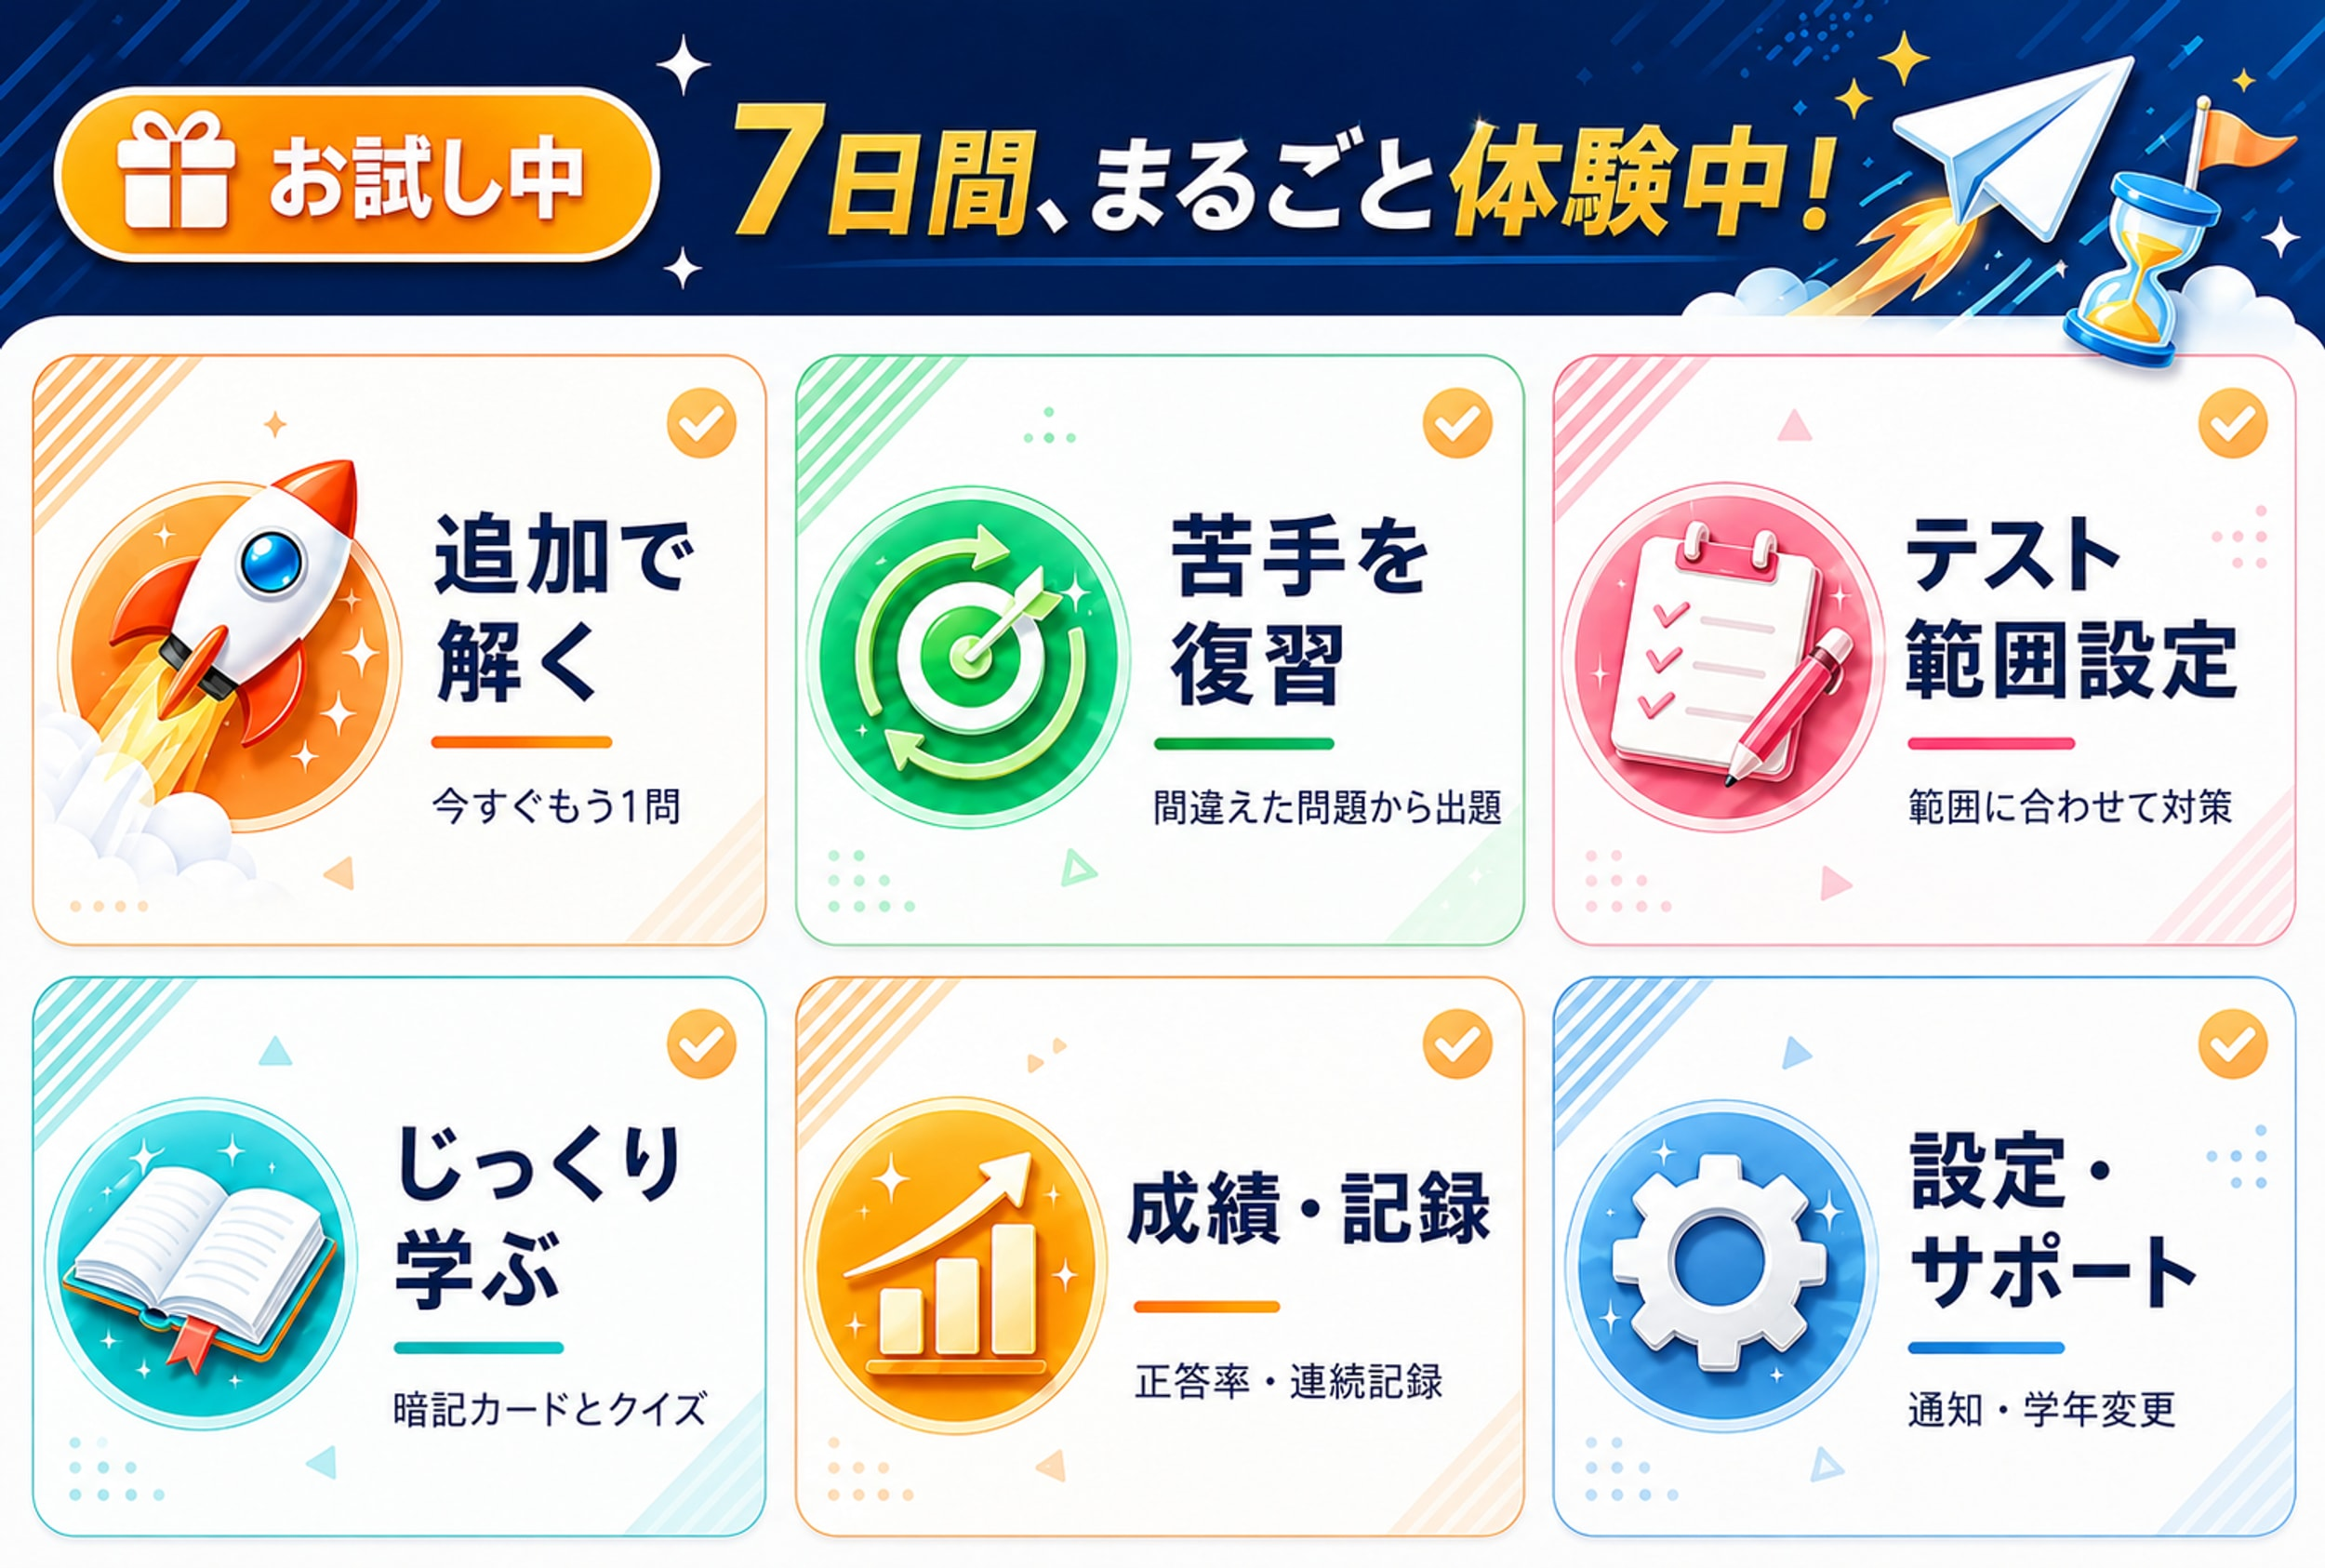
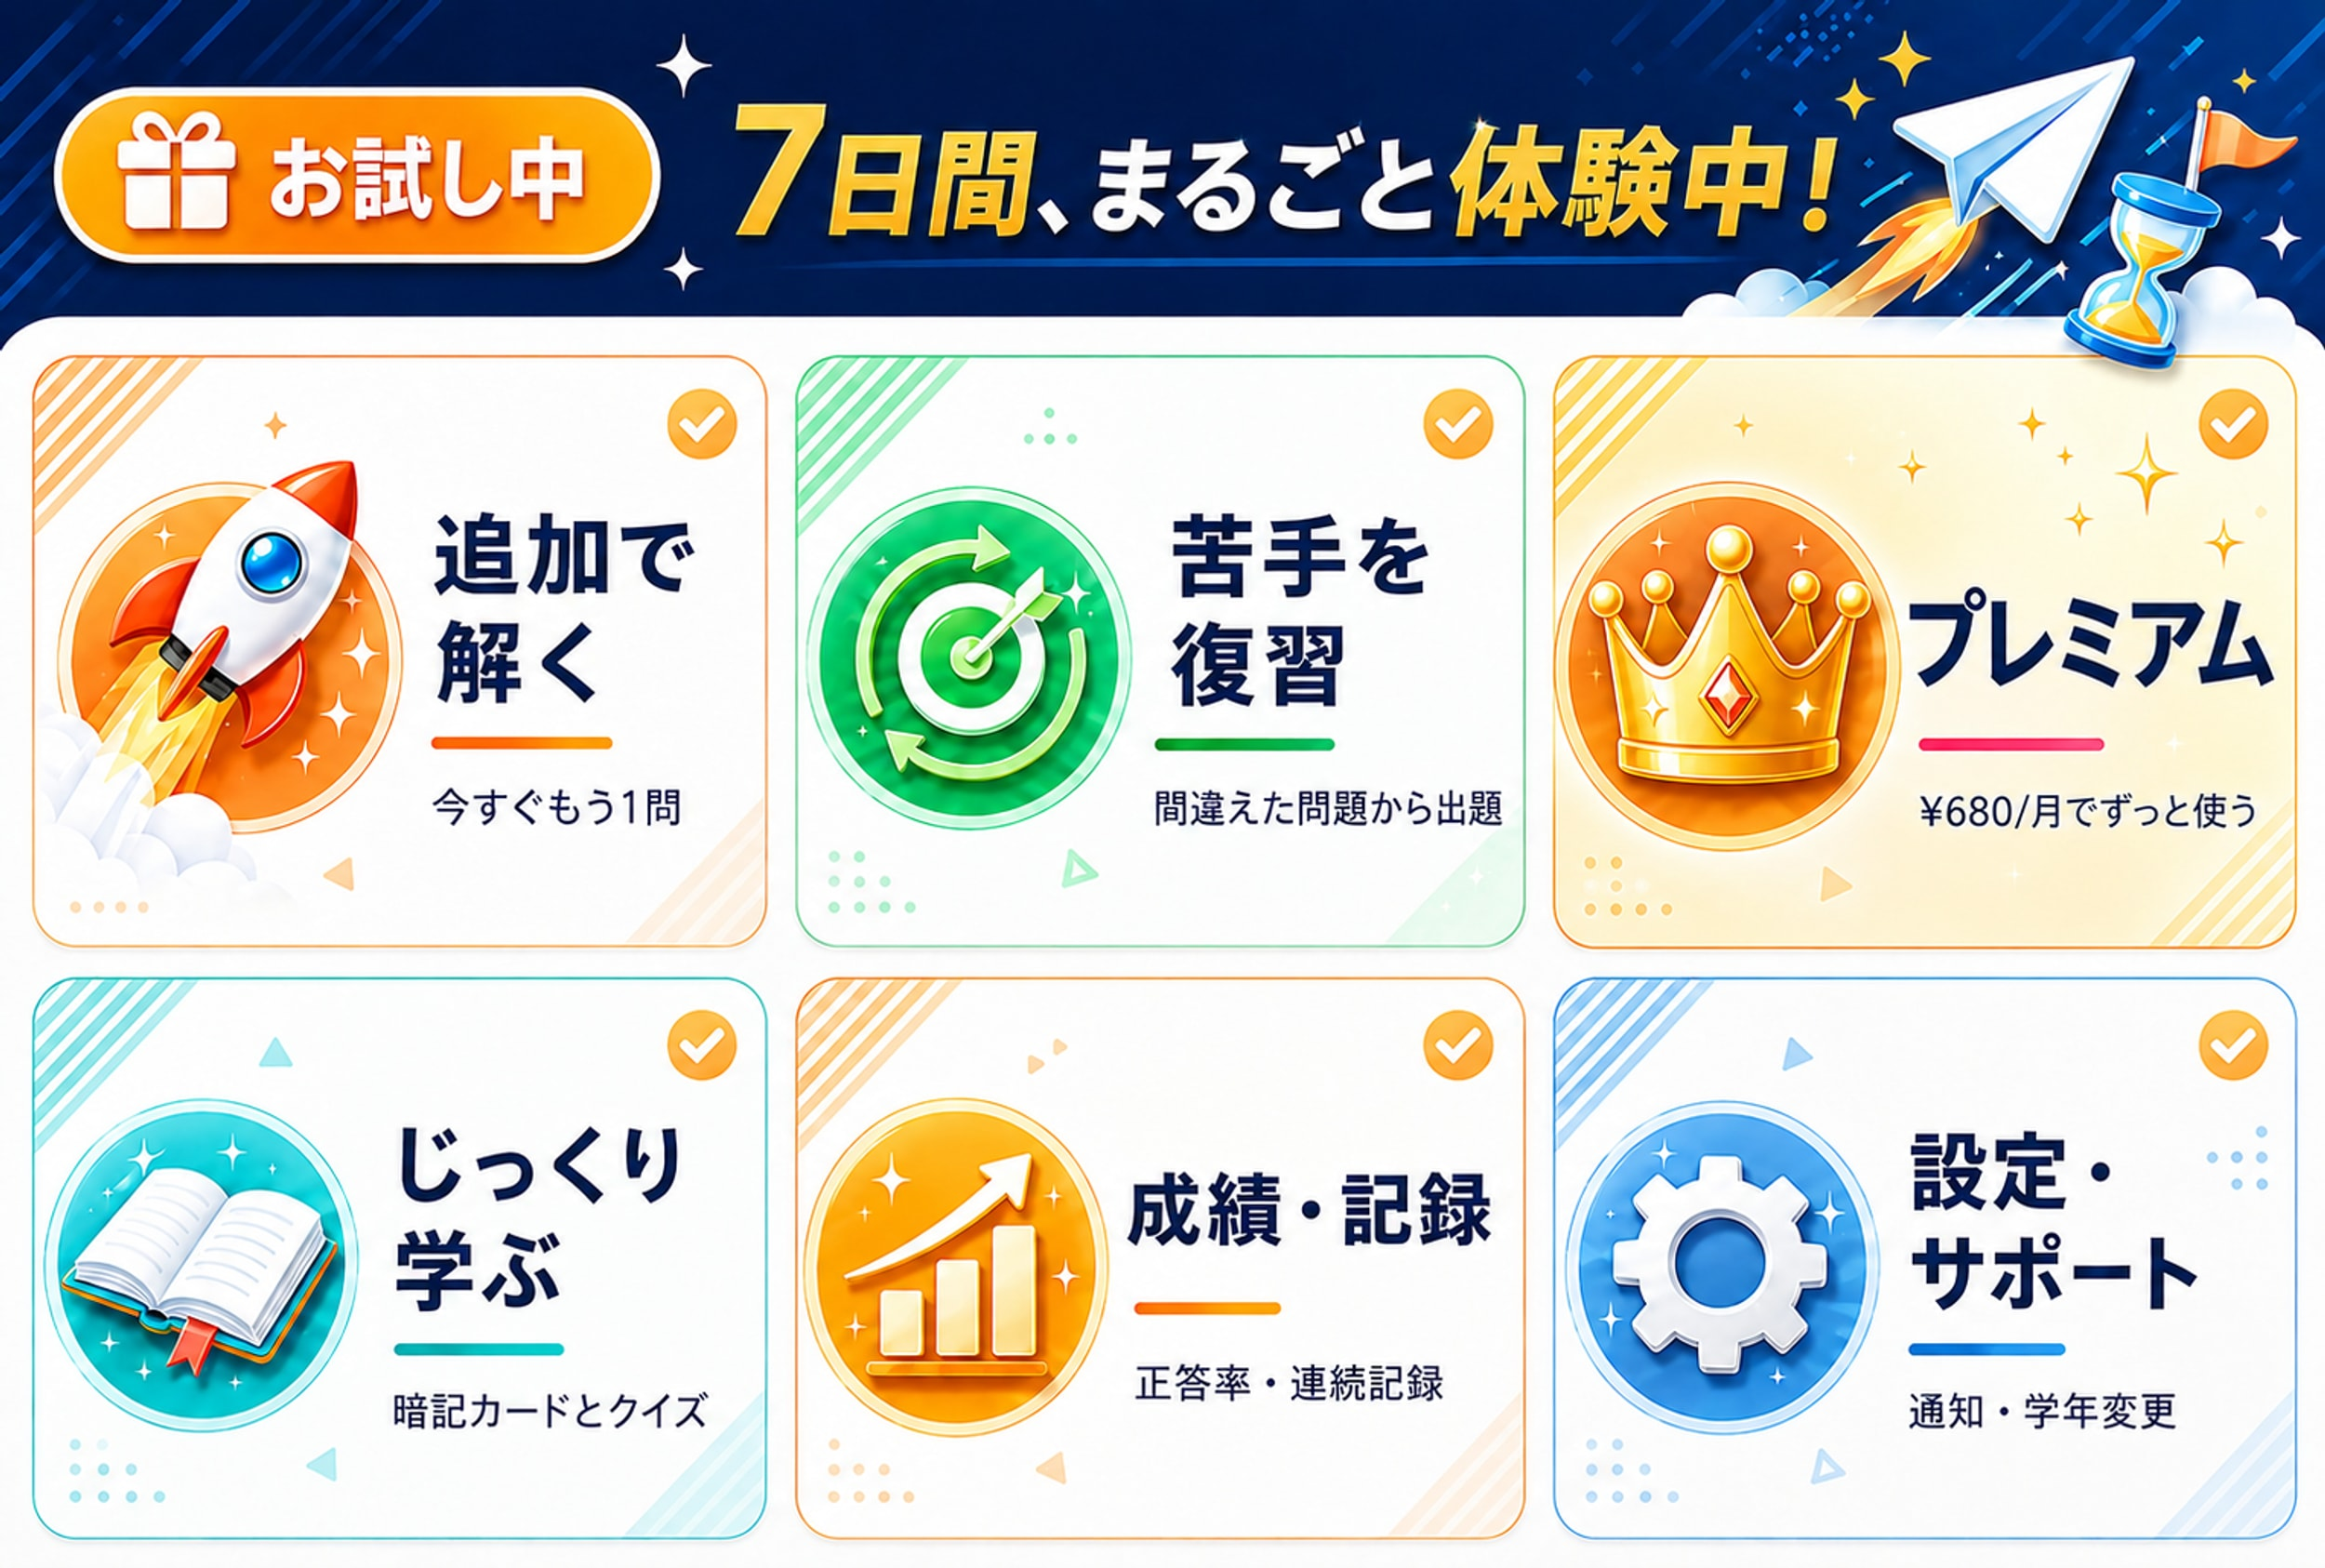
feat(richmenu): trial メニュー右上を「プレミアム」案内ボタンに差し替え
trial 中ユーザーがリッチメニューから本登録（プレミアム情報 LP）に直接到達できる
よう、右上の「テスト範囲設定」ボタンを「プレミアム」(王冠アイコン + ¥680/月で
ずっと使う) に差し替えた。

変更内容:

- data/line-richmenu/trial.jpg: 新画像（王冠アイコン + amber 強調背景）
- data/line-richmenu/raw/trial-source.png: 生成 AI 出力をそのまま保存
- data/line-richmenu/trial-richmenu.json: 右上 area を postback 型「出題範囲設定」から
  URI 型「プレミアム」(LIFF /liff/premium-info) に変更
- data/line-richmenu/state.json: 新 richMenuId
  (richmenu-d43859a987c8f9171ce52b7dbb490947)

トレードオフ:
- 「出題範囲設定」がリッチメニューから消える → /liff/settings ページや
  「テスト範囲を設定する」flex のリンクから引き続き到達可能
- 6→8 ボタンへの拡張は画像レイアウト変更が大きいため見送り

残作業（運用側）:
1. functions/.env の LINE_RICHMENU_TRIAL_ID を新 ID に更新
2. firebase deploy --only functions で env 反映
3. bulk migrate を再実行（または個別 sync-plan）で既存 trial ユーザー全員を新メニューに切替

画像生成プロンプト: docs/operations/trial-richmenu-image-prompt.md
(dormant 用と同じテンプレ準拠、ChatGPT/Gemini/DALL-E 各種で再利用可)

diff --git a/src/pages/LiffUnitsPage.tsx b/src/pages/LiffUnitsPage.tsx
@@ -297,7 +297,8 @@ export function LiffUnitsPage() {
   const allEras: StudyEra[] = useMemo(() => historyEras ?? [], [historyEras]);
 
   // 公式LINE の post-answer flex からの deep-link 適用。historyEras がロードされた
-  // タイミングでトピック名が一致するものを探し、見つかれば setup view へ遷移する。
+  // タイミングでトピック名が一致するものを探し、見つかれば該当 kind のセッションを
+  // **自動的に開始**して fc / quiz view に直行する（旧版は setup view 止まり）。
   // 一度だけ走らせるため deepLinkAppliedRef でガード。
   useEffect(() => {
     if (deepLinkAppliedRef.current) return;
@@ -314,20 +315,67 @@ export function LiffUnitsPage() {
     deepLinkAppliedRef.current = true;
     setCurrentTopic(topic);
     setSetupKind(deepLinkKind);
-    setView('setup');
     setSessionSeenFcIds(new Set());
     setSessionSeenQuizIds(new Set());
-    // itemStats を非同期ロード（setup view は load 完了前でも描画可）
+
+    const startNow = (topic: StudyTopic, statsForTopic: ItemStatsMap) => {
+      const mode: PickMode = setupRandomize ? 'random' : 'sequential';
+      if (deepLinkKind === 'fc') {
+        const filtered = topic.flashcards.filter((c) =>
+          difficultyMatch(c.difficulty, setupDifficulties),
+        );
+        const picked = pickItems(filtered, statsForTopic, setupCount, mode);
+        if (picked.length === 0) {
+          // 候補ゼロのときだけ setup view に落として手動で条件を変えてもらう
+          setView('setup');
+          return;
+        }
+        if (user) clearSavedSession(user.uid, topic.topicId, 'fc');
+        setResumeFc(null);
+        setActiveFcItems(picked);
+        setSessionSeenFcIds(new Set(picked.map((i) => i.id)));
+        setKnownIds([]);
+        setUnknownIds([]);
+        setView('fc');
+      } else {
+        const filtered = topic.quiz.filter((q) =>
+          difficultyMatch(q.difficulty, setupDifficulties),
+        );
+        const picked = pickItems(filtered, statsForTopic, setupCount, mode);
+        if (picked.length === 0) {
+          setView('setup');
+          return;
+        }
+        if (user) clearSavedSession(user.uid, topic.topicId, 'quiz');
+        setResumeQuiz(null);
+        setActiveQuizItems(picked);
+        setSessionSeenQuizIds(new Set(picked.map((i) => i.id)));
+        setWrongIds([]);
+        setView('quiz');
+      }
+    };
+
     const cached = allItemStats.get(topic.topicId);
     if (cached) {
       setItemStats(cached);
+      startNow(topic, cached);
     } else {
       void (async () => {
         const stats = await loadItemStats(topic.topicId);
         setItemStats(stats);
+        startNow(topic, stats);
       })();
     }
-  }, [historyEras, deepLinkTopicName, deepLinkKind, allItemStats]);
+  }, [
+    historyEras,
+    deepLinkTopicName,
+    deepLinkKind,
+    allItemStats,
+    setupRandomize,
+    setupDifficulties,
+    setupCount,
+    user,
+  ]);
 
   const filteredEras: StudyEra[] = useMemo(() => {
     if (!scopeFilterOn || testScopeTopics.size === 0) {

diff --git a/docs/operations/trial-richmenu-image-prompt.md b/docs/operations/trial-richmenu-image-prompt.md
@@ -1,0 +1,188 @@
+# trial リッチメニュー画像生成プロンプト（プレミアム導線追加版）
+
+trial ユーザー（`planSource == "trial"`）向け公式LINE リッチメニュー画像を、
+**既存の `trial.jpg` をベースに、テイストを変えずに**「プレミアム」ボタンを
+追加するためのプロンプト集です。
+
+## 前提
+
+- ベース画像: `/workspaces/marutto-study/data/line-richmenu/trial.jpg`
+- ベース画像のテイスト: 上部ネイビーのヘッダーバー（「お試し中」バッジ + 「7日間、まるごと体験中!」+ 紙飛行機・砂時計）+ **6 ブロック（3×2）** の白カード + カラフルでやや立体感のあるイラストアイコン + 各ブロック大きめタイトル + 小さなサブテキスト
+- 構成・色味・装飾密度は **`trial.jpg` と同等**に保つ
+- 変更するのは **右上ブロックの「テスト範囲設定」を「プレミアム」に差し替え** のみ
+
+## なぜ右上を差し替えるか
+
+| 候補 | 採否 |
+|---|---|
+| 右上「テスト範囲設定」 | ✅ **採用**（設定・サポート ページから到達可能なため代替路あり） |
+| 右下「設定・サポート」 | ❌ 設定の入口がメニューから消えるとサポート性が落ちる |
+| 中下「成績・記録」 | ❌ trial ユーザーの満足感に直結、削るべきでない |
+| 上段の「追加で解く」「苦手を復習」 | ❌ trial の主要価値、削るべきでない |
+
+## 画像仕様
+
+| 項目 | 値 |
+|------|------|
+| サイズ | 2500 × 1686 px |
+| ファイル上限 | 1 MB（`prepare-richmenu-images.ts` が自動圧縮） |
+| ブロック構成 | **6 ブロック（3×2）**、各 833×843 px（`trial-richmenu.json` と完全一致） |
+| 配置先 | `data/line-richmenu/raw/trial-source.png`（既存と同じパス） |
+| 整形コマンド | `npx tsx scripts/prepare-richmenu-images.ts` |
+
+## ブロックレイアウト（trial.jpg からの差分）
+
+```
+┌───────────── ヘッダーバー（ネイビー） ──────────────┐
+│ [お試し中] 7日間、まるごと体験中!     ✈ ⏳          │ ← 変更なし
+├──────────┬──────────────┬──────────────────────────┤
+│ 追加で解く │  苦手を復習  │  ✨ プレミアム            │ ← 右上のみ差し替え
+│今すぐもう1問│間違えた問題から│  ¥680/月でずっと使う      │
+│  🚀       │   🎯        │  👑（amber強調）          │
+├──────────┼──────────────┼──────────────────────────┤
+│じっくり学ぶ│  成績・記録  │  設定・サポート           │ ← 変更なし
+│暗記＋クイズ│正答率・連続記録│  通知・学年変更          │
+│  📖       │   📊        │   ⚙                       │
+└──────────┴──────────────┴──────────────────────────┘
+```
+
+| ブロック | 変更内容 | アイコン |
+|---|---|---|
+| ヘッダー全体 | そのまま流用（変更なし） | 紙飛行機・砂時計そのまま |
+| 左上「追加で解く」 | そのまま | ロケット流用 |
+| 中上「苦手を復習」 | そのまま | 的アイコン流用 |
+| **右上 ※差し替え対象** | `テスト範囲設定` `範囲に合わせて対策` → **`プレミアム`** `¥680/月でずっと使う` | クリップボード → **王冠 👑（amber #F59E0B 強調）** |
+| 左下「じっくり学ぶ」 | そのまま | 本アイコン流用 |
+| 中下「成績・記録」 | そのまま | チャートアイコン流用 |
+| 右下「設定・サポート」 | そのまま | 歯車アイコン流用 |
+
+**強調順位**: 右上「プレミアム」が 6 ブロック中で最も視覚的に強くなるようにする（amber 強めの背景、王冠アイコンを大きめに）。trial 中ユーザーが本登録に進む唯一の物理ボタン入口なので、迷わずタップできる明度・サイズに。
+
+---
+
+## プロンプト本体（日本語版）
+
+> 添付画像（`trial.jpg`）と一緒に画像生成 AI に投げてください。
+> ChatGPT 画像生成 / Gemini 2.5 Flash Image / Nano Banana など、添付画像を参照できるモデル前提。
+
+```
+添付した画像（中学生向け学習サービス「チャットでスタディ」公式LINE のお試し中ユーザー向けリッチメニュー）をベースに、右上の「テスト範囲設定」ブロックだけを「プレミアム」案内ボタンに差し替えてください。
+
+【厳守事項：テイストは1ミリも変えない】
+- 上部ネイビーのヘッダーバー、6ブロック（3×2）の白カード、カラフルでやや立体感のあるアイコン、大きめのタイトル文字、小さなサブテキスト、カード背景の薄いドットパターン — 全てそのまま継承
+- 画像サイズ：2500×1686 ピクセル
+- 配色トーン・コントラスト・装飾密度はベース画像と同等
+- フォント（日本語ゴシック太字）も同じ印象に揃える
+- ヘッダーバー、左上「追加で解く」、中上「苦手を復習」、左下「じっくり学ぶ」、中下「成績・記録」、右下「設定・サポート」の 5 ブロックは一切変更しない（テキスト・アイコン・色・余白すべて完全に同じ）
+
+【変更点は右上ブロックのみ】
+
+■ 右上ブロック ※ここを差し替え・主CTA級の存在感に
+- メインタイトル「テスト範囲設定」→「プレミアム」（少し大きめのフォント、王冠の絵文字感を意識した華やかさ）
+- サブテキスト「範囲に合わせて対策」→「¥680/月でずっと使う」
+- アイコン：クリップボード → 王冠（クラウン）アイコン。立体感のあるイラスト調、amber/ゴールド系の暖色（#F59E0B 〜 #FBBF24 の範囲）
+- カード背景：他5ブロックは白だが、ここだけ淡いアンバー（例：#FFF7E6 〜 #FEF3C7）の薄いグラデーション or 白＋amber ライン枠で「特別感」を出す
+- 右上隅に小さな星 ✨ や輝きエフェクトを足して、6ブロックの中で一番目を引くようにする（ただしけばけばしくしない、ベース画像の上品さは維持）
+- 視覚的に他5ブロックよりひと回り存在感が強い印象（明度・彩度・装飾密度で「ここを押せばプレミアムに進める」と直感で分かるレベル）
+
+【トーン】
+- ベース画像のお試し中らしい元気で前向きな印象は全部維持
+- 右上「プレミアム」だけ、他5ブロックよりひと段階華やか（王冠＋淡いゴールド背景）にして「お得な本登録への入口」感を出す
+- 押し売り感は出さない（金額表記はサブテキストにとどめ、デカデカと「今すぐ買う！」のようなテンションにはしない）
+
+【書き出し】
+2500×1686 ピクセル、ファイルサイズ 1MB 以下に収まる程度の解像度・圧縮で出力してください。
+```
+
+---
+
+## プロンプト本体（英語版）
+
+> 海外の画像生成 AI（DALL-E, Imagen など）を使うときはこちら。
+
+```
+Using the attached image (a Japanese LINE Official Account rich menu for "Chat de Study", a junior-high learning service, trial-user version) as the base, replace ONLY the top-right block from "テスト範囲設定" (Test scope setting) to a "Premium" guide block.
+
+[STRICT RULE: Do not change the visual taste at all]
+- Keep: the navy header bar at top, the 3×2 white card layout (6 blocks), the colorful semi-3D icons, large bold titles + small subtitles, the subtle dot pattern on card backgrounds.
+- Image size: 2500 × 1686 pixels
+- Match the base image in color balance, contrast, and decoration density
+- Use the same Japanese gothic bold font style
+- Do NOT modify the header, the top-left "追加で解く", top-center "苦手を復習", bottom-left "じっくり学ぶ", bottom-center "成績・記録", or bottom-right "設定・サポート" blocks (text, icons, colors, spacing must remain exactly the same).
+
+[Only the top-right block is changed]
+
+■ Top-Right block ※ replace and make it the most prominent
+- Title: change "テスト範囲設定" to "プレミアム" (slightly larger font, with a regal/premium feel)
+- Subtitle: change "範囲に合わせて対策" to "¥680/月でずっと使う" (Use forever at ¥680/month)
+- Icon: replace clipboard with a crown icon. Semi-3D illustration, amber/gold warm tones (#F59E0B to #FBBF24 range).
+- Card background: while the other 5 blocks are white, this one should have a soft amber gradient (e.g., #FFF7E6 to #FEF3C7) or a white background with an amber border, signaling "special".
+- Add a small star ✨ or sparkle effect in the top-right corner of this block. Make it the most eye-catching of the 6 blocks (but stay tasteful — the base image's refinement should be preserved).
+- This block must feel one tier stronger in visual weight than the other 5 (saturation/brightness/decoration density), so users instantly understand "this leads to the premium plan".
+
+[Tone]
+- Maintain the upbeat, friendly impression of the trial menu
+- Only the top-right "プレミアム" block should feel one notch more elegant (crown + soft gold background), signaling "the gateway to a great-value paid plan"
+- Avoid a hard sell — keep the price in the subtitle, don't blast "BUY NOW!" energy
+
+[Output]
+Export at 2500 × 1686 pixels, at a resolution/compression that stays under 1 MB.
+```
+
+---
+
+## 出力検証チェックリスト
+
+採用前に必ず確認してください:
+
+- [ ] 画像サイズが 2500 × 1686 px（または `prepare-richmenu-images.ts` で 1MB 以下に整形できる）
+- [ ] **右上「プレミアム」が 6 ブロック中で最も視覚的に強い**（明度・彩度・装飾密度）
+- [ ] 全体のテイスト（配色・装飾・密度）が `trial.jpg` とほぼ同じ印象
+- [ ] ヘッダー（「お試し中」「7日間、まるごと体験中!」、紙飛行機・砂時計）が一切変わっていない
+- [ ] 左上「追加で解く」、中上「苦手を復習」、左下「じっくり学ぶ」、中下「成績・記録」、右下「設定・サポート」の 5 ブロックが ベース画像と完全に同じ
+- [ ] 右上のサブテキストが「¥680/月でずっと使う」になっている（金額が正しい）
+- [ ] 王冠アイコンが立体感のあるイラスト調で、amber/ゴールド系
+- [ ] ヘッダーバーの色味・パターンが `trial.jpg` と一致
+
+---
+
+## 採用後の差し替え手順
+
+1. **生成画像を保存**: `data/line-richmenu/raw/trial-source.png` に上書き（既存と同じパス）
+2. **整形**:
+   ```bash
+   npx tsx scripts/prepare-richmenu-images.ts
+   ```
+   → `data/line-richmenu/trial.jpg` が更新される
+3. **trial-richmenu.json の右上 area を「プレミアム」リンクに変更**:
+   ```json
+   {
+     "bounds": { "x": 1667, "y": 0, "width": 833, "height": 843 },
+     "action": {
+       "type": "uri",
+       "label": "プレミアム",
+       "uri": "https://liff.line.me/2009587166-k51bH4LC"
+     }
+   }
+   ```
+4. **新しい richMenu を作成**:
+   ```bash
+   npx tsx scripts/manage-line-richmenu.ts create trial
+   # → 新 richMenuId を出力
+   ```
+5. **画像アップロード**:
+   ```bash
+   npx tsx scripts/manage-line-richmenu.ts upload trial ./data/line-richmenu/trial.jpg
+   ```
+6. **`functions/.env` の `LINE_RICHMENU_TRIAL_ID` を新 ID に更新**
+7. **functions 再デプロイ**:
+   ```bash
+   FUNCTIONS_DISCOVERY_TIMEOUT=600 firebase deploy --only functions
+   ```
+8. **既存 trial ユーザーへ再リンク**（メニュー切替を即時反映）:
+   ```bash
+   npx tsx scripts/migrate-existing-users-to-trial.ts --confirm --skip-flex --include-zero-answers
+   # または自分だけ:
+   npx tsx scripts/manage-line-richmenu.ts sync-plan U429b1d951fc7236c9e8e85e5ca96b910 trial --until 2026-06-07T23:59:59+09:00
+   ```
+9. **LINE アプリでメニューが切り替わったことを目視確認**